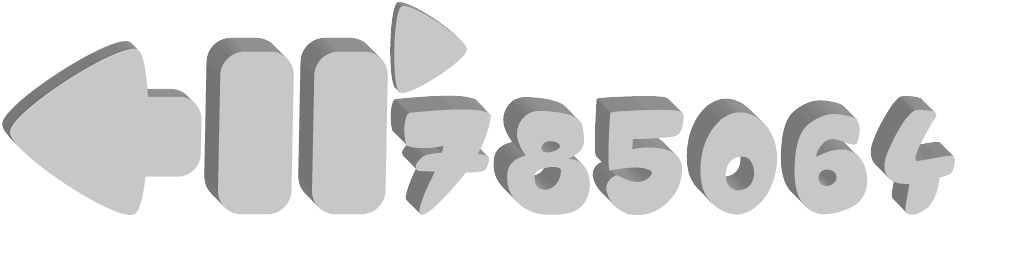
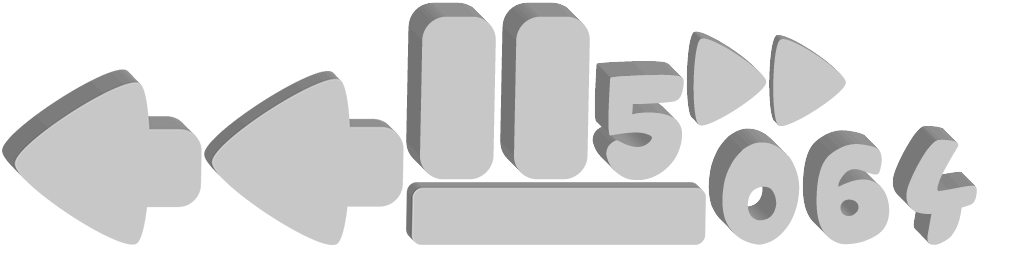
new design

diff --git a/core/src/no/fusiontd/menu/NormalTextButtonFactory.java b/core/src/no/fusiontd/menu/NormalTextButtonFactory.java
@@ -25,10 +25,10 @@ public class NormalTextButtonFactory implements TextButtonFactory {
 
     private void populateSkin() {
         BitmapFont font = generateBitmapFont();
-        SpriteDrawable blueButton = new SpriteDrawable(uiAtlas.createSprite("button0"));
-        SpriteDrawable blueButtonPressed = new SpriteDrawable(uiAtlas.createSprite("button1"));
-        SpriteDrawable redButton = new SpriteDrawable(uiAtlas.createSprite("button0"));
-        SpriteDrawable redButtonPressed = new SpriteDrawable(uiAtlas.createSprite("button1"));
+        SpriteDrawable blueButton = new SpriteDrawable(uiAtlas.createSprite("button0_long"));
+        SpriteDrawable blueButtonPressed = new SpriteDrawable(uiAtlas.createSprite("button1_long"));
+        SpriteDrawable redButton = new SpriteDrawable(uiAtlas.createSprite("button0_long"));
+        SpriteDrawable redButtonPressed = new SpriteDrawable(uiAtlas.createSprite("button1_long"));
         skin.add("font", font, BitmapFont.class);
         skin.add("default", new TextButton.TextButtonStyle(blueButton, blueButtonPressed, blueButtonPressed, font));
         skin.add("red", new TextButton.TextButtonStyle(redButton, redButtonPressed, redButtonPressed, font));
@@ -38,9 +38,9 @@ public class NormalTextButtonFactory implements TextButtonFactory {
     private BitmapFont generateBitmapFont() {
         FreeTypeFontGenerator generator = new FreeTypeFontGenerator(Gdx.files.internal("Fonts/CANDY-SHOP-BLACK.TTF"));
         FreeTypeFontGenerator.FreeTypeFontParameter parameter = new FreeTypeFontGenerator.FreeTypeFontParameter();
-        parameter.size = 30;
+        parameter.size = 20;
         //parameter.borderWidth = 8;
-        parameter.color = Color.BLACK;
+        parameter.color = Color.DARK_GRAY;
         //parameter.borderColor = Color.BLUE;
         BitmapFont font = generator.generateFont(parameter);
         generator.dispose();

diff --git a/core/src/no/fusiontd/game/UI.java b/core/src/no/fusiontd/game/UI.java
@@ -84,19 +84,19 @@ public class UI{
 
     public void towerSetMenu(float cameraX, float cameraY, SpriteBatch batch) {
 
-        batch.draw(Graphics.getRegion("placeholder"), cameraX - 0.5f, cameraY - 0.5f, 0.9f, 0.8f);
+        batch.draw(Graphics.getRegion("placeholder"), cameraX - 0.45f, cameraY - 0.35f, 0.79f, 0.76f);
 
         batch.draw(Graphics.getRegion("button0"), cameraX + 0.5f , cameraY + 1.5f, 2f, 1f);
-        batch.draw(Graphics.getRegion("t_0"), cameraX + 0.5f, cameraY + 1.5f, 1f, 1f);
+        batch.draw(Graphics.getRegion("t_0"), cameraX + 0.5f, cameraY + 1.6f, 0.9f, 0.8f);
 
         batch.draw(Graphics.getRegion("button0"), cameraX + 0.5f , cameraY + 0.5f, 2f, 1f);
-        batch.draw(Graphics.getRegion("t_emil0"), cameraX + 0.5f, cameraY + 0.5f, 1f, 1f);
+        batch.draw(Graphics.getRegion("t_emil0"), cameraX + 0.5f, cameraY + 0.5f, 0.9f, 1f);
 
         batch.draw(Graphics.getRegion("button0"), cameraX + 0.5f , cameraY - 0.5f, 2f, 1f);
-        batch.draw(Graphics.getRegion("t_hybrida0"), cameraX + 0.5f, cameraY - 0.5f, 1f, 1f);
+        batch.draw(Graphics.getRegion("t_hybrida0"), cameraX + 0.5f, cameraY - 0.4f, 1f, 0.783f);
 
         batch.draw(Graphics.getRegion("button0"), cameraX + 0.5f , cameraY - 1.5f, 2f, 1f);
-        batch.draw(Graphics.getRegion("t_volvox0"), cameraX + 0.5f, cameraY - 1.5f, 1f, 1f);
+        batch.draw(Graphics.getRegion("t_volvox0"), cameraX + 0.5f, cameraY - 1.4f, 1f, 0.78f);
     }
 
     public boolean towerSet(float cameraX, float cameraY){

diff --git a/core/src/no/fusiontd/screens/MenuScreen.java b/core/src/no/fusiontd/screens/MenuScreen.java
@@ -38,21 +38,21 @@ public class MenuScreen implements Screen{
         /*Texture backgroundImage = new Texture(Gdx.files.internal("backgrounds/main_menu_with_creeps.png"));
         stage.setBackground(new Image(backgroundImage));*/
 
-        stage.addMenuContent(textButtonFactory.createTextButton("Singleplayer", new ChangeListener() {
+        stage.addMenuContent(textButtonFactory.createTextButton("SINGLEPLAYER", new ChangeListener() {
             @Override
             public void changed(ChangeEvent event, Actor actor) {
                 game.selectMap();
             }
         }));
 
-        stage.addMenuContent(textButtonFactory.createTextButton("Multiplayer", new ChangeListener() {
+        stage.addMenuContent(textButtonFactory.createTextButton("MULTIPLAYER", new ChangeListener() {
             @Override
             public void changed(ChangeEvent event, Actor actor) {
                 game.openMultiplayer();
             }
         }));
 
-        stage.addMenuContent(textButtonFactory.createTextButton("Map Editor", new ChangeListener() {
+        stage.addMenuContent(textButtonFactory.createTextButton("MAP EDITOR", new ChangeListener() {
             @Override
             public void changed(ChangeEvent event, Actor actor) {
                 game.openMapEditor();

diff --git a/core/src/no/fusiontd/MenuStage.java b/core/src/no/fusiontd/MenuStage.java
@@ -29,7 +29,7 @@ public class MenuStage extends Stage {
     private void createMenuGroup() {
         mainGroup = new VerticalGroup();
         addActor(mainGroup);
-        mainGroup.setPosition(getWidth() / 2, getHeight() / 3);
+        mainGroup.setPosition(getWidth() / 2, getHeight() / 2.6f);
         mainGroup.center();
         mainGroup.space(18);
         mainGroup.setZIndex(1);
